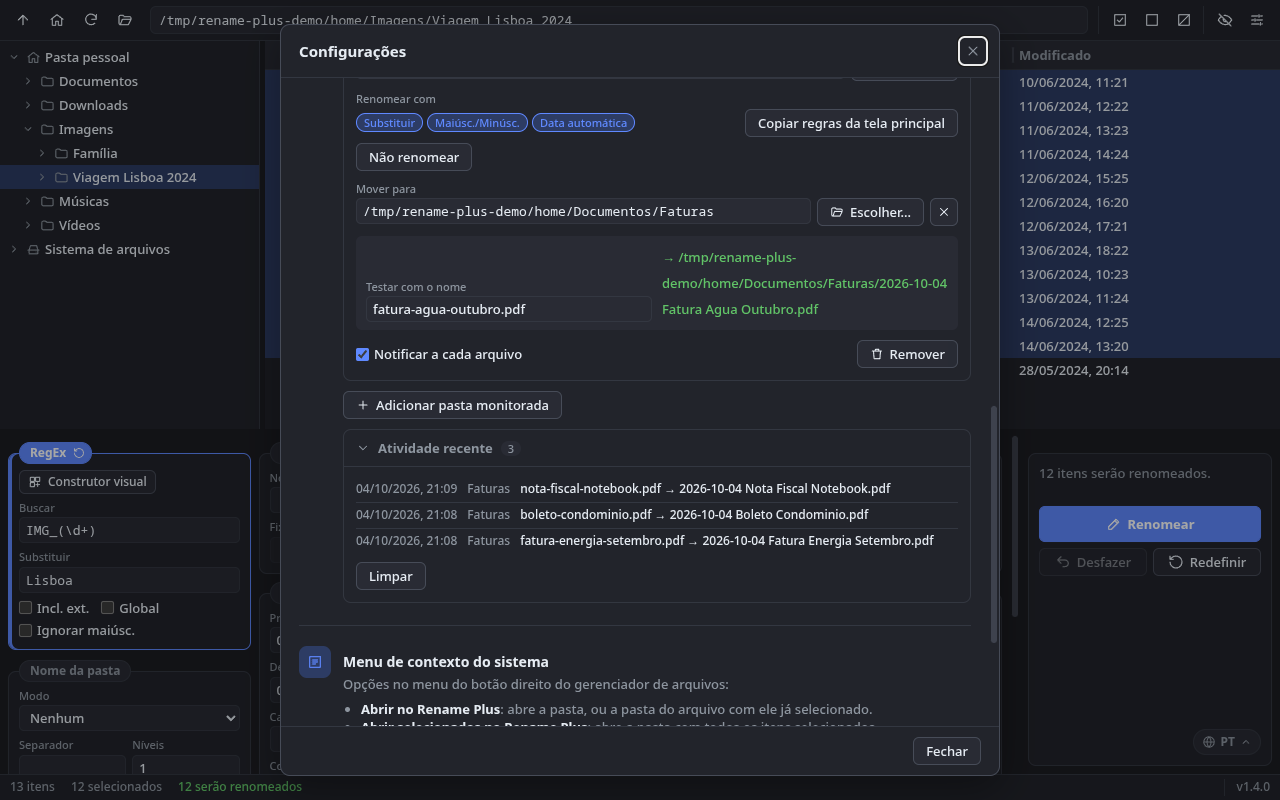
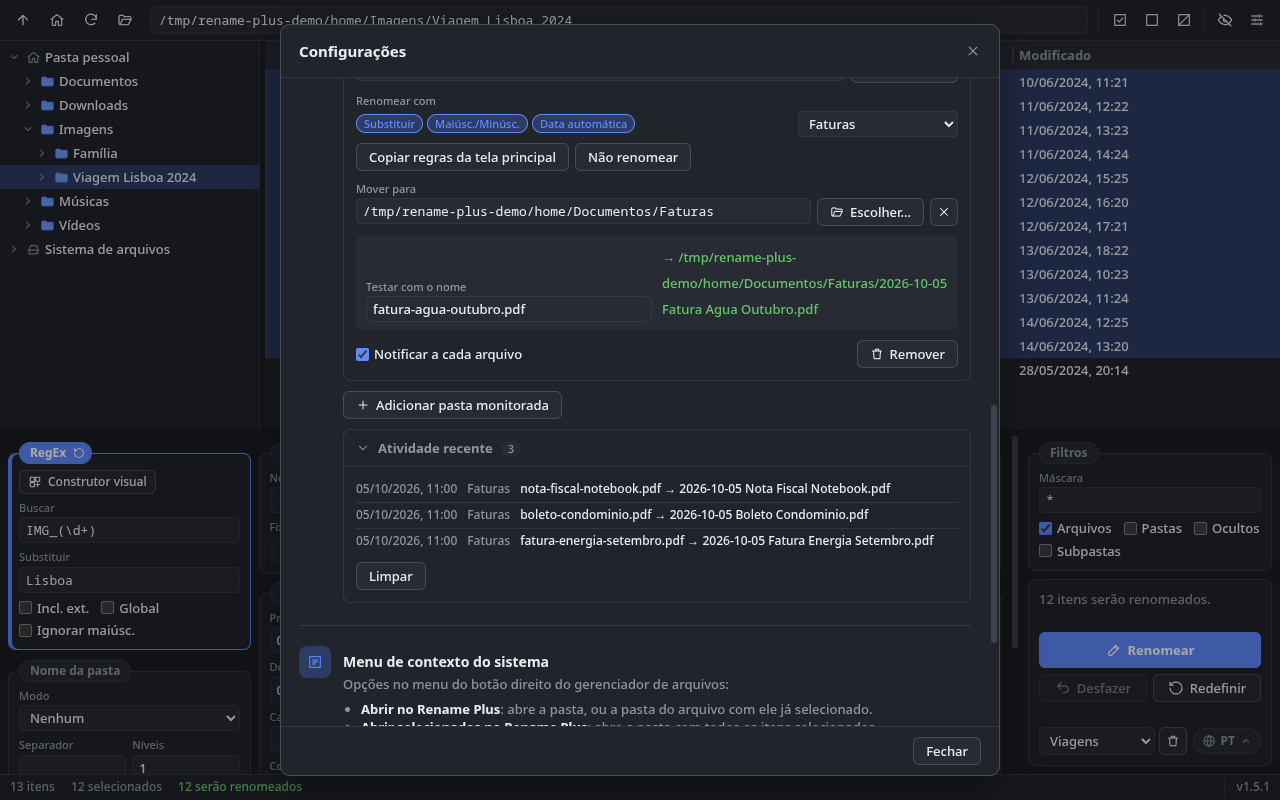
docs: prints da versão 1.5.1
Os prints mostravam a interface da 1.4.0, sem os recursos novos da
listagem e dos presets.

- Print principal com realce das partes do nome que mudam, ícones por
  tipo de arquivo, pastas em azul, Filtros na coluna das ações e um
  item salvo em Seus Filtros
- Pastas monitoradas com as regras vindas de Seus Filtros
- Demais prints refeitos nos mesmos cenários
- Textos alternativos dos READMEs com a versão 1.5.1

diff --git a/README.es-ES.md b/README.es-ES.md
@@ -84,7 +84,7 @@ Las capturas muestran la interfaz en portugués. La aplicación también está d
       <p><b>Arrastrar y soltar.</b> Suelta una carpeta para abrirla, o archivos para abrir su carpeta con ellos ya seleccionados.</p>
     </td>
     <td width="50%" valign="top">
-      <a href="docs/screenshots/configuracoes.png"><img src="docs/screenshots/configuracoes.png" alt="Configuración con las secciones Apariencia, Actualizaciones y Carpetas vigiladas; la versión instalada 1.4.0 es la más reciente"></a>
+      <a href="docs/screenshots/configuracoes.png"><img src="docs/screenshots/configuracoes.png" alt="Configuración con las secciones Apariencia, Actualizaciones y Carpetas vigiladas; la versión instalada 1.5.1 es la más reciente"></a>
       <p><b>Configuración.</b> Tema de la interfaz, comprobación de actualizaciones en GitHub y carpetas vigiladas, además de las opciones «Abrir en Rename Plus» en el menú contextual del gestor de archivos.</p>
     </td>
   </tr>
@@ -94,7 +94,7 @@ Las capturas muestran la interfaz en portugués. La aplicación también está d
       <p><b>Constructor visual de RegEx.</b> La búsqueda y el reemplazo se arman con bloques que se arrastran, con ejemplos listos. Aquí, <code>IMG_2041.JPG</code> pasa a <code>Foto 2041.JPG</code>.</p>
     </td>
     <td width="50%" valign="top">
-      <a href="docs/screenshots/pastas-monitoradas.png"><img src="docs/screenshots/pastas-monitoradas.png" alt="Carpetas vigiladas: segundo plano activado y la regla 'Faturas' vigilando los PDF de la carpeta Downloads"></a>
+      <a href="docs/screenshots/pastas-monitoradas.png"><img src="docs/screenshots/pastas-monitoradas.png" alt="Carpetas vigiladas: segundo plano activado y la regla 'Faturas' vigilando los PDF de la carpeta Downloads, con las reglas de renombrado tomadas del preset 'Faturas'"></a>
       <p><b>Carpetas vigiladas.</b> Los PDF que llegan a Downloads reciben la fecha delante, pasan a Título y van a <code>Documentos/Faturas</code>, incluso con la aplicación cerrada (segundo plano activado).</p>
     </td>
   </tr>

diff --git a/README.pt-BR.md b/README.pt-BR.md
@@ -82,7 +82,7 @@ A interface segue o modelo de três áreas: árvore de pastas à esquerda, lista
       <p><b>Arrastar e soltar.</b> Solte uma pasta para abri-la, ou arquivos para abrir a pasta deles já com eles selecionados.</p>
     </td>
     <td width="50%" valign="top">
-      <a href="docs/screenshots/configuracoes.png"><img src="docs/screenshots/configuracoes.png" alt="Configurações com as seções Aparência, Atualizações e Pastas monitoradas; a versão instalada 1.4.0 é a mais recente"></a>
+      <a href="docs/screenshots/configuracoes.png"><img src="docs/screenshots/configuracoes.png" alt="Configurações com as seções Aparência, Atualizações e Pastas monitoradas; a versão instalada 1.5.1 é a mais recente"></a>
       <p><b>Configurações.</b> Tema da interface, verificação de atualizações no GitHub e pastas monitoradas, além das opções "Abrir no Rename Plus" no menu de contexto do gerenciador de arquivos.</p>
     </td>
   </tr>
@@ -92,7 +92,7 @@ A interface segue o modelo de três áreas: árvore de pastas à esquerda, lista
       <p><b>Construtor visual de RegEx.</b> A busca e a substituição são montadas com blocos arrastáveis, com exemplos prontos. Aqui, <code>IMG_2041.JPG</code> vira <code>Foto 2041.JPG</code>.</p>
     </td>
     <td width="50%" valign="top">
-      <a href="docs/screenshots/pastas-monitoradas.png"><img src="docs/screenshots/pastas-monitoradas.png" alt="Pastas monitoradas: segundo plano ativado e a regra 'Faturas' monitorando PDFs na pasta Downloads"></a>
+      <a href="docs/screenshots/pastas-monitoradas.png"><img src="docs/screenshots/pastas-monitoradas.png" alt="Pastas monitoradas: segundo plano ativado e a regra 'Faturas' monitorando PDFs na pasta Downloads, com as regras de renomeação vindas de Seus Filtros"></a>
       <p><b>Pastas monitoradas.</b> PDFs que chegam em Downloads ganham a data na frente, viram Título e vão para <code>Documentos/Faturas</code>, mesmo com o app fechado (segundo plano ativado).</p>
     </td>
   </tr>

diff --git a/README.md b/README.md
@@ -84,7 +84,7 @@ The screenshots show the Portuguese interface. The app is also available in Engl
       <p><b>Drag and drop.</b> Drop a folder to open it, or drop files to open their folder with them already selected.</p>
     </td>
     <td width="50%" valign="top">
-      <a href="docs/screenshots/configuracoes.png"><img src="docs/screenshots/configuracoes.png" alt="Settings dialog with the Appearance, Updates and Watch folders sections; the installed version 1.4.0 is up to date"></a>
+      <a href="docs/screenshots/configuracoes.png"><img src="docs/screenshots/configuracoes.png" alt="Settings dialog with the Appearance, Updates and Watch folders sections; the installed version 1.5.1 is up to date"></a>
       <p><b>Settings.</b> Interface theme, update checks on GitHub and watch folders, besides the "Open in Rename Plus" entries in the file manager's context menu.</p>
     </td>
   </tr>
@@ -94,7 +94,7 @@ The screenshots show the Portuguese interface. The app is also available in Engl
       <p><b>Visual RegEx builder.</b> The search and the replacement are built from drag-and-drop blocks, with ready-made examples. Here, <code>IMG_2041.JPG</code> becomes <code>Foto 2041.JPG</code>.</p>
     </td>
     <td width="50%" valign="top">
-      <a href="docs/screenshots/pastas-monitoradas.png"><img src="docs/screenshots/pastas-monitoradas.png" alt="Watch folders settings: background watching turned on and the 'Faturas' rule watching Downloads for PDF files"></a>
+      <a href="docs/screenshots/pastas-monitoradas.png"><img src="docs/screenshots/pastas-monitoradas.png" alt="Watch folders settings: background watching turned on and the 'Faturas' rule watching Downloads for PDF files, with the rename rules taken from the 'Faturas' preset"></a>
       <p><b>Watch folders.</b> PDFs that land in Downloads get the date in front, Title Case and go to <code>Documentos/Faturas</code>, even with the app closed (background watching on).</p>
     </td>
   </tr>
